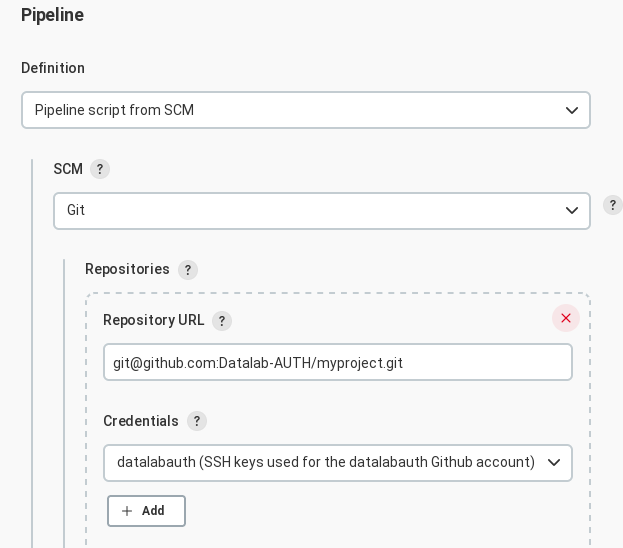
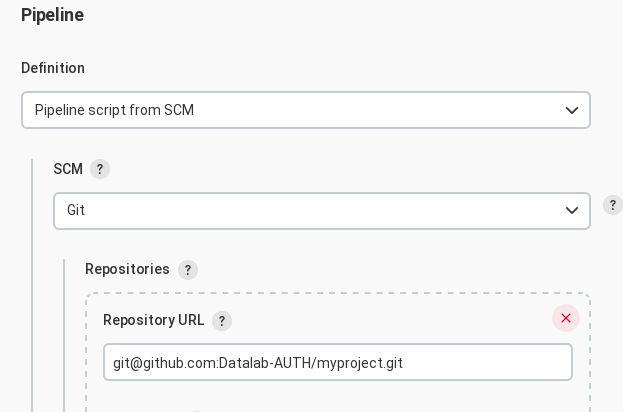
No need for github credentials anymore

diff --git a/README.md b/README.md
@@ -53,9 +53,6 @@ Log into our [Jenkins instance](https://sdg1.csd.auth.gr/)
 * Under **Pipeline/Definition** choose **Pipeline script from SCM**
 * Under **Repository URL** add the URL to your repository in the form
   `git@github.com:Datalab-AUTH/myproject.git`
-* If it is a private repo, under **Credentials** select
-  **datalabauth (SSH keys used for the datalabauth Github account)**.
-  If it is a public repo, you don't have to add any credentials.
 
 ![Pipeline from git](img/pipeline_from_git.png)
 
